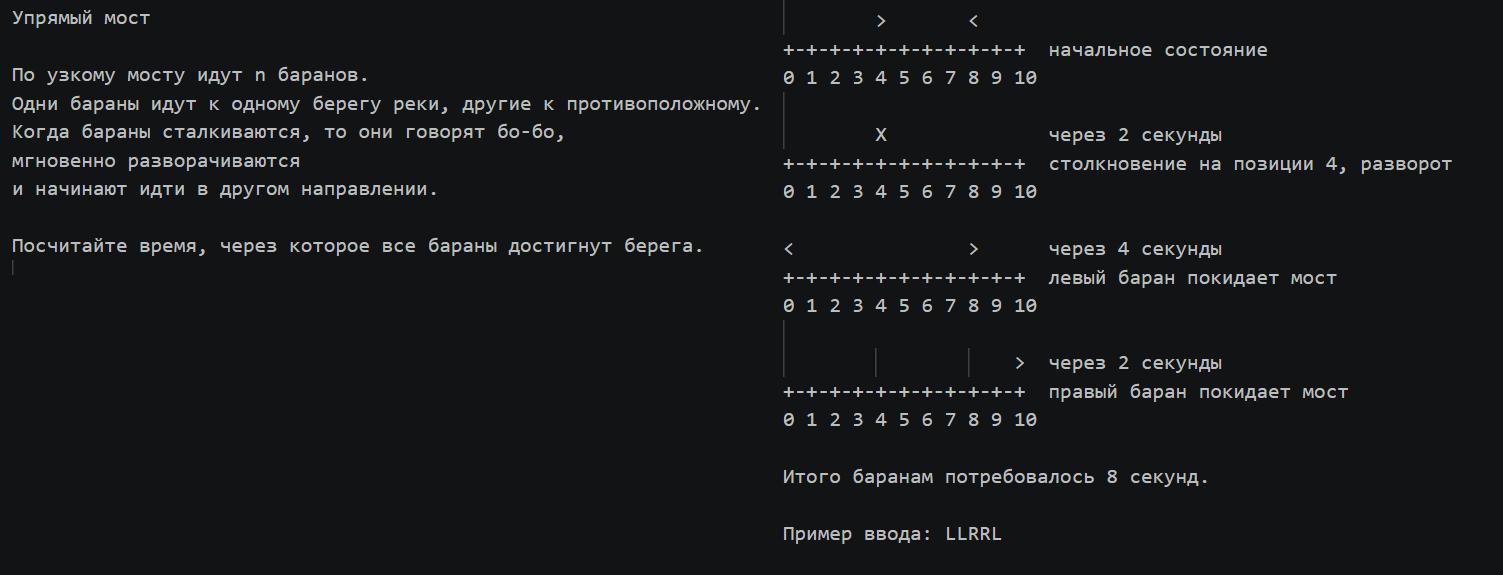
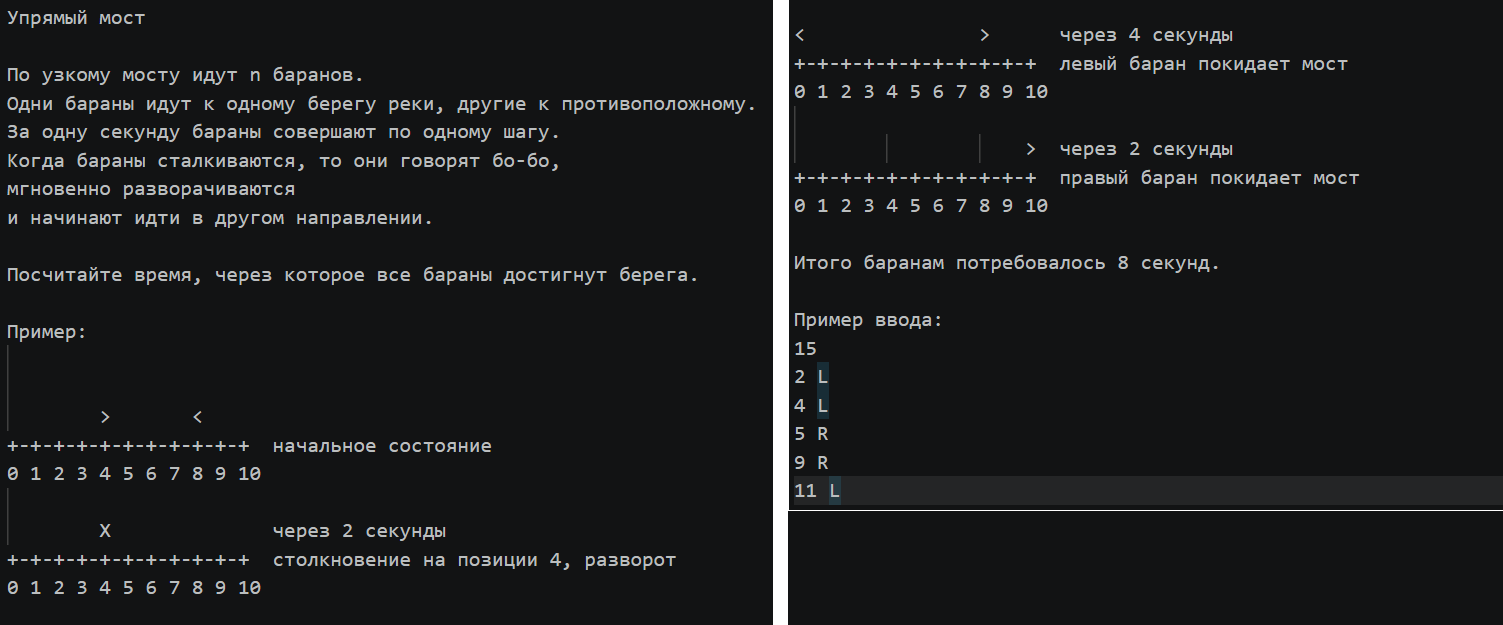
Fixed 13-Goats

diff --git a/tasks/13-Goats/tests.py b/tasks/13-Goats/tests.py
@@ -5,63 +5,63 @@ from solution import solve
 class GoatsTests(unittest.TestCase):
     # Public tests
     def test_basic_case(self):
-        self.assertEqual(solve(['R', 'L']), 2)
+        self.assertEqual(solve(3, [(1, 'R'), (2, 'L')]), 2)
     
     def test_all_right(self):
-        self.assertEqual(solve(['R', 'R', 'R']), 3)
+        self.assertEqual(solve(3, [(0, 'R'), (1, 'R'), (2, 'R')]), 3)
     
     def test_all_left(self):
-        self.assertEqual(solve(['L', 'L', 'L']), 3)
+        self.assertEqual(solve(3, [(1, 'L'), (2, 'L'), (3, 'L')]), 3)
     
     def test_mixed_1(self):
-        self.assertEqual(solve(['L', 'R', 'R', 'R']), 3)
+        self.assertEqual(solve(10, [(2, 'L'), (3, 'R'), (8, 'R'), (9, 'R')]), 7)
     
     def test_mixed_2(self):
-        self.assertEqual(solve(['R', 'R', 'L']), 3)
+        self.assertEqual(solve(3, enumerate(['R', 'R', 'L'])), 3)
 
     # Private tests
     def test_example_LRRRLLL(self):
-        self.assertEqual(solve(['L', 'R', 'R', 'R', 'L', 'L', 'L']), 7)
+        self.assertEqual(solve(7, enumerate(['L', 'R', 'R', 'R', 'L', 'L', 'L'])), 6)
     
     def test_example_RRLLLR(self):
-        self.assertEqual(solve(['R', 'R', 'L', 'L', 'L', 'R']), 6)
+        self.assertEqual(solve(6, enumerate(['R', 'R', 'L', 'L', 'L', 'R'])), 6)
     
     def test_single_L(self):
-        self.assertEqual(solve(['L']), 1)
+        self.assertEqual(solve(2, [(1, 'L')]), 1)
     
     def test_single_R(self):
-        self.assertEqual(solve(['R']), 1)
+        self.assertEqual(solve(1, enumerate(['R'])), 1)
     
     def test_example_RRRLL(self):
-        self.assertEqual(solve(['R', 'R', 'R', 'L', 'L']), 3)
+        self.assertEqual(solve(19, enumerate(['R', 'R', 'R', 'L', 'L'], start=7)), 12)
     
     def test_empty_corridor(self):
-        self.assertEqual(solve([]), 0)
+        self.assertEqual(solve(10, []), 0)
     
     def test_L_at_end(self):
-        self.assertEqual(solve(['R', 'R', 'R', 'R', 'L']), 5)
+        self.assertEqual(solve(5, enumerate(['R', 'R', 'R', 'R', 'L'])), 5)
     
     def test_R_at_start(self):
-        self.assertEqual(solve(['R', 'L', 'L', 'L', 'L']), 5)
+        self.assertEqual(solve(5, enumerate(['R', 'L', 'L', 'L', 'L'])), 5)
     
     def test_alternating(self):
-        self.assertEqual(solve(['R', 'L', 'R', 'L', 'R', 'L']), 5)
+        self.assertEqual(solve(20, enumerate(['R', 'L', 'R', 'L', 'R', 'L'], start=2)), 18)
     
     def test_long_sequence(self):
         robots = ['R'] * 50 + ['L'] * 50
-        self.assertEqual(solve(robots), 51)
+        self.assertEqual(solve(150, enumerate(robots)), 150)
     
     def test_all_L_long(self):
-        self.assertEqual(solve(['L'] * 100), 100)
+        self.assertEqual(solve(200, enumerate(['L'] * 100)), 99)
     
     def test_all_R_long(self):
-        self.assertEqual(solve(['R'] * 100), 100)
+        self.assertEqual(solve(300, enumerate(['R'] * 100, start=200)), 100)
     
     def test_L_then_R(self):
-        self.assertEqual(solve(['L', 'L', 'L', 'R', 'R', 'R']), 6)
+        self.assertEqual(solve(14, enumerate(['L', 'L', 'L', 'R', 'R', 'R'])), 11)
     
     def test_mixed_middle(self):
-        self.assertEqual(solve(['R', 'L', 'L', 'R', 'R', 'L', 'L']), 5)
+        self.assertEqual(solve(13, enumerate(['L', 'L', 'L', 'R', 'R', 'L', 'L'])), 10)
 
 
 if __name__ == "__main__":

diff --git a/tasks/13-Goats/correct.py b/tasks/13-Goats/correct.py
@@ -1,9 +1,6 @@
-def solve(input_array: list[str]) -> int:
-    min_left = len(input_array)
-    max_right = 0
-    for i in range(len(input_array)):
-        if input_array[i] == 'L' and i < min_left:
-            min_left = i
-        if input_array[i] == 'R' and i > max_right:
-            max_right = i
-    return max(len(input_array) - min_left, max_right + 1)
+def solve(n: int, input_array: list[(int, str)]) -> int:
+    max_dist = 0
+    for pos, dir in input_array:
+        current_dist = pos if dir == 'L' else n - pos
+        max_dist = max(current_dist, max_dist)
+    return max_dist

diff --git a/tasks/13-Goats/task.md b/tasks/13-Goats/task.md
@@ -30,7 +30,13 @@
 
 Итого баранам потребовалось 8 секунд.
 
-Пример ввода: LLRRL
+Пример ввода: 
+15
+2 L
+4 L
+5 R
+9 R
+11 L
 
 
 
